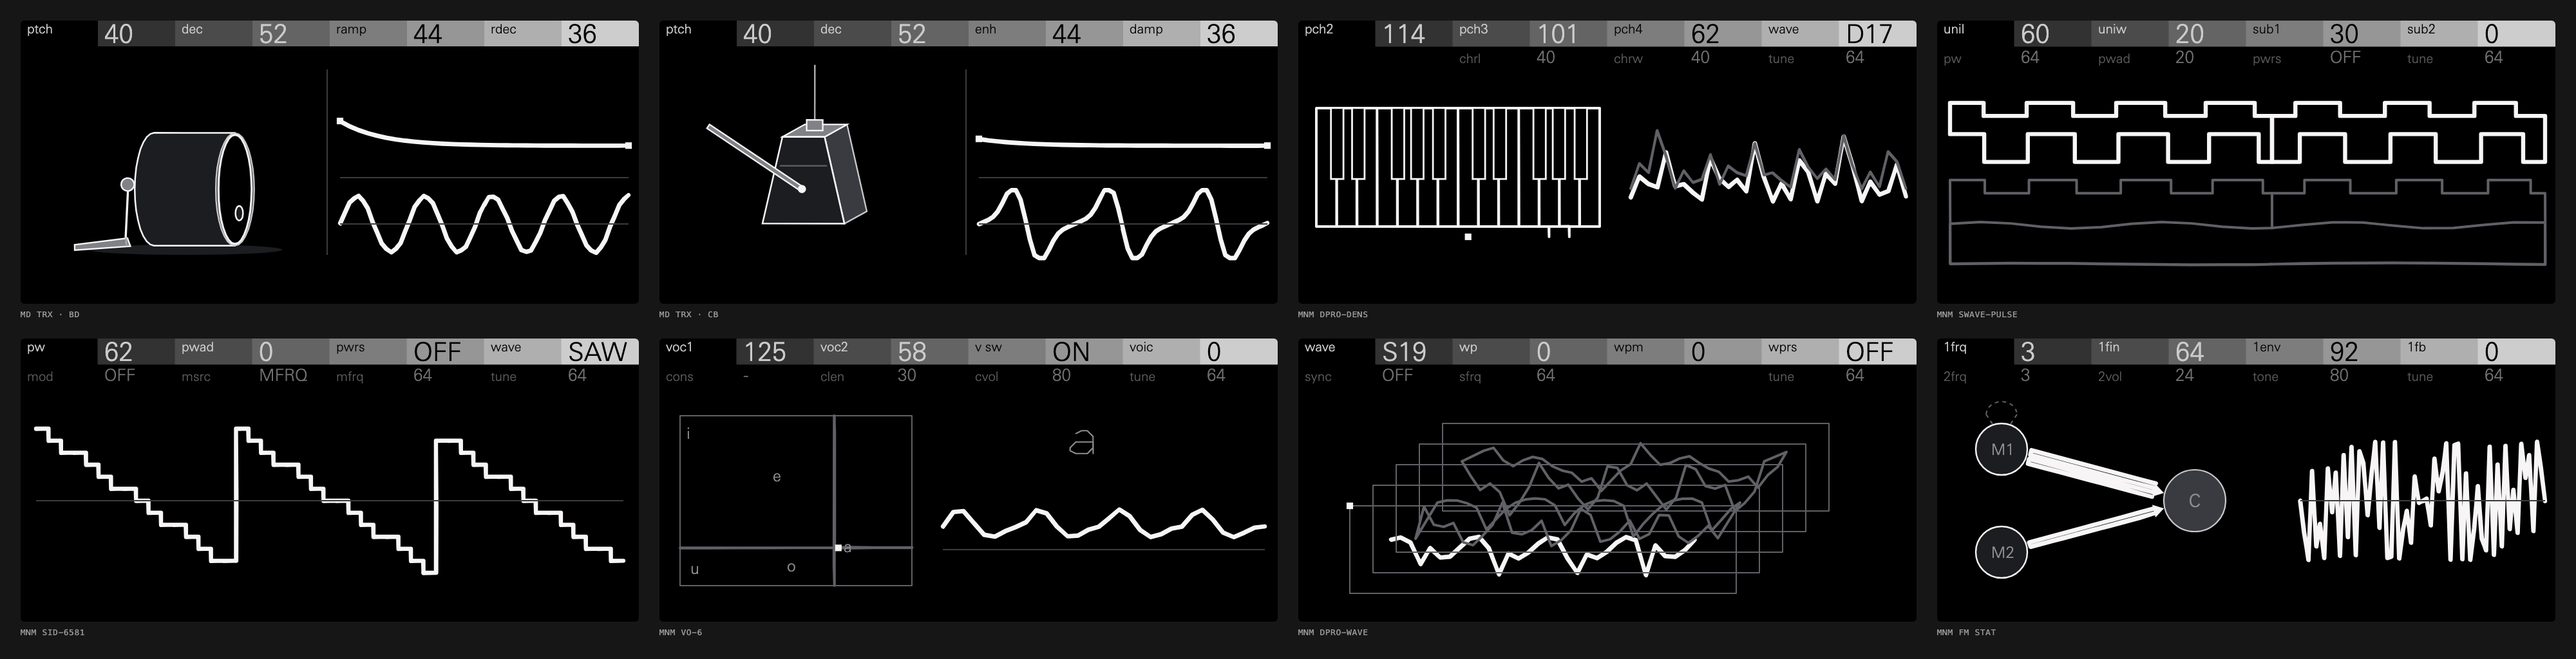
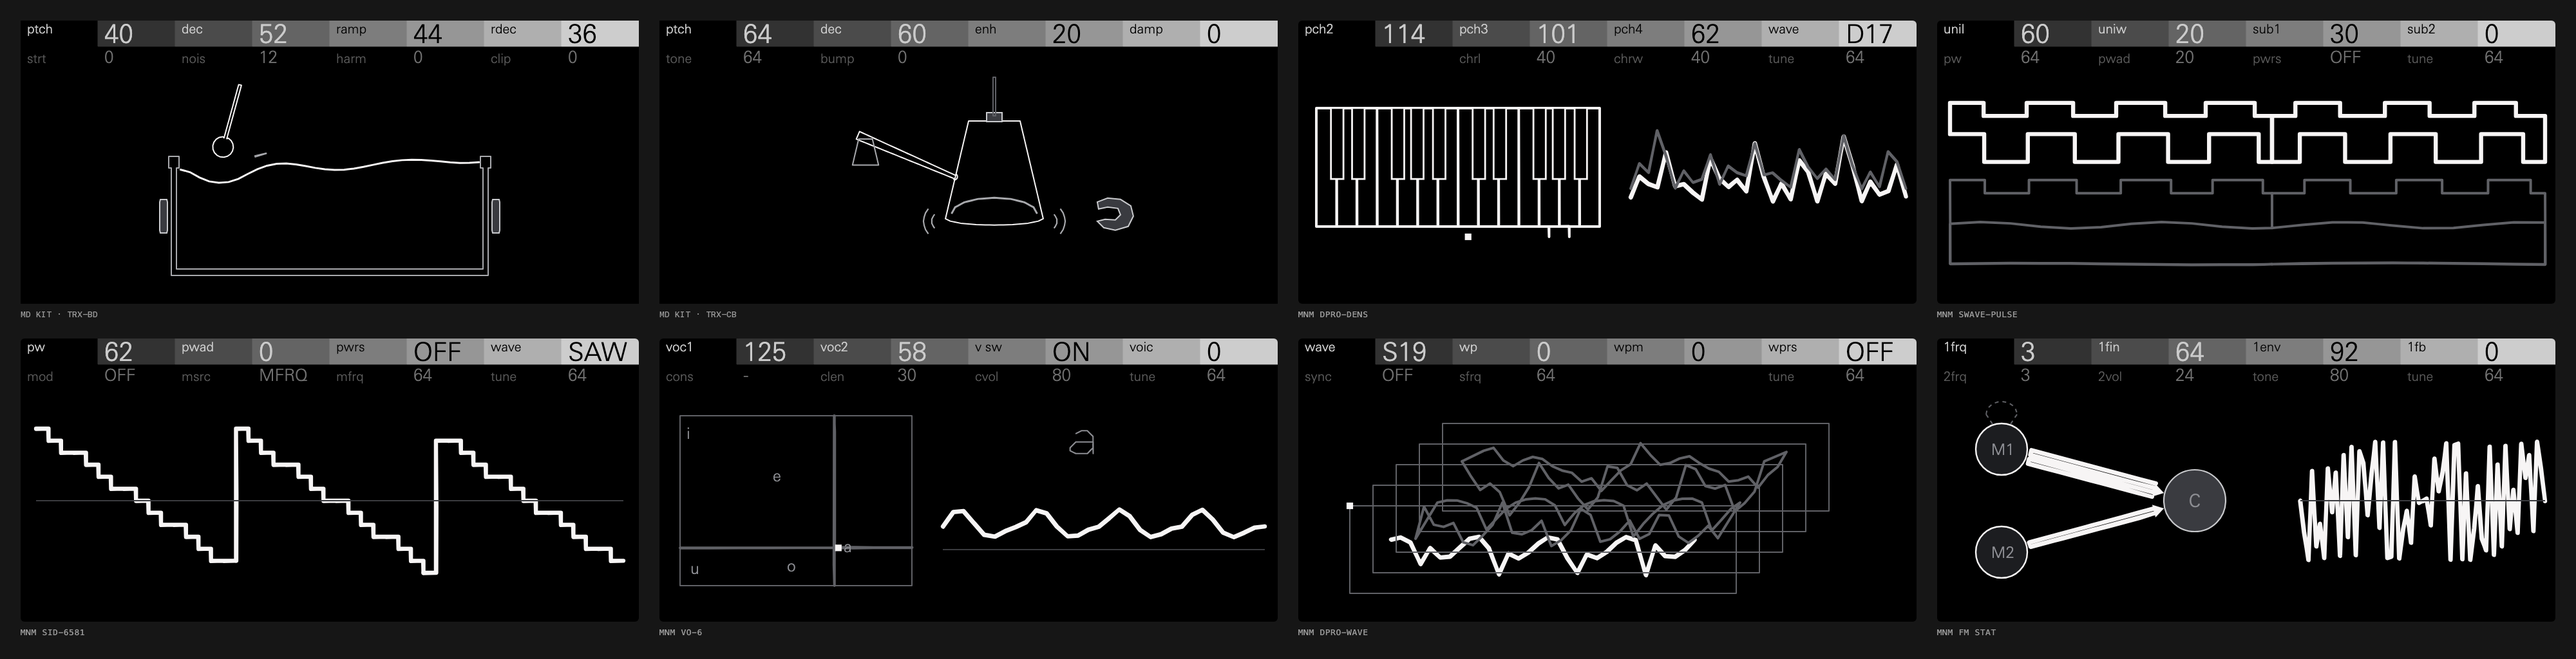
MD KIT and MD E12: thinner lines, 1 px, after stock Drumline's look
The kits' sections draw on the four paths at scale 2, which doubles a
palette entry's stroke width: their lines were 2 to 2.4 px wide (ribbons
about 2.5 px) beside fixed parts at 1 to 1.2. The paths now take palette
entries of their own at half the width (fig::path_tone, KIT_PATH_SHADES in
tools/art/build.mjs), in places the kits left unused, and the parts' mid and
outline entries go from 1.2 and 1.1 to 1. A closed outline now draws 1 px
and a ribbon 1.5 px; colours, geometry, path keys and churn are unchanged.

check_kit_frames, check_frame and OP-XY-Dev's check_screens give the same
results as before; sdk.py test passes on the host and with --firmware.
docs/machines.png's two MD KIT screens are re-rendered from this commit in
Univers Next Pro Light. MD E12's generated copy also picks up TRX-SD's
travel row, which main's voices already had.

diff --git a/machines/mde12/mdkit_view.hpp b/machines/mde12/mdkit_view.hpp
@@ -25,7 +25,7 @@ using opxy::u16;
 // the change it makes to the sound (the root of its share of 24 dB of band energy, at least 0.5).
 static const opxy::u16 travel[33][8] = {
     {128, 184, 183, 137, 132, 180, 128, 170},   // TRX-BD: PTCH 5.6, DEC 12.4, RAMP 12.2, RDEC 6.9, STRT 6.4, NOIS 11.8, HARM 1.1, CLIP 10.6
-    {128, 239, 128, 128, 142, 128, 128, 203},   // TRX-SD: PTCH 0.7, DEC 21.0, BUMP 0.8, BENV 0.5, SNAP 7.4, TONE 5.9, TUNE 4.8, CLIP 15.0
+    {157, 239, 128, 128, 142, 128, 128, 203},   // TRX-SD: PTCH 9.0, DEC 21.0, BUMP 0.8, BENV 0.3, SNAP 7.4, TONE 5.8, TUNE 4.7, CLIP 15.1
     {208, 256, 128, 137, 128, 160, 128, 0},   // TRX-XT: PTCH 15.8, DEC 27.9, RAMP 5.7, RDEC 6.8, DAMP 3.8, DIST 9.3, DTYP 1.5
     {128, 128, 128, 227, 256, 128, 163, 128},   // TRX-CP: CLPY 3.1, TONE 2.6, HARD 4.0, RICH 18.9, RATE 24.9, ROOM 3.6, RSIZ 9.7, RTUN 5.8
     {196, 256, 220, 0, 0, 0, 0, 0},   // TRX-RS: PTCH 14.1, DEC 33.5, DIST 17.7
@@ -138,6 +138,23 @@ inline i32 reach(i32 x, i32 y) {
     return (ax > ay ? ax + ay * 3 / 8 : ay + ax * 3 / 8) | 1;
 }
 
+// A path's own palette entry for a shade. The paths draw at scale 2, where an
+// entry's stroke width doubles, and the fixed parts at about 1, so the paths
+// take entries of their own: the same grey at half the width, in entries the
+// kits leave unused (tools/art/build.mjs, KIT_PATH_SHADES). Both then draw
+// lines about 1 px wide, as thin as stock Drumline's.
+inline u32 path_tone(u32 tone) {
+    switch (tone) {
+    case thin: return line;
+    case mid: return outline0;
+    case dim: return outline1;
+    case faint: return fill2;
+    case dash: return fill3;
+    case label: return fill5;
+    default: return tone;
+    }
+}
+
 // Draws points as a closed outline (or, `ribbon`, a line out and back) on a
 // path about (ox, oy) on the stage, at scale 2, turned by `tenths` about it.
 // The key is the points' own hash, so an unchanged shape costs nothing.
@@ -182,7 +199,7 @@ inline void draw(F& f, u32 path, const Pts& q, i32 ox, i32 oy, u32 tone, bool ri
         } else outline(f.paths[path], local, n, key);
         f.paths[path].key = key;
     }
-    place(f, path, ox + shift, stage_y * unit + oy, 2 * unit, tone, stroke);
+    place(f, path, ox + shift, stage_y * unit + oy, 2 * unit, path_tone(tone), stroke);
     if (tenths) opxy::draw::turn(f, path, rotation(tenths));
 }
 // A fixed part at (x, y) on the stage (Q10), scaled and turned, in its own shade or another.

diff --git a/machines/mdkit/mdkit_view.hpp b/machines/mdkit/mdkit_view.hpp
@@ -138,6 +138,23 @@ inline i32 reach(i32 x, i32 y) {
     return (ax > ay ? ax + ay * 3 / 8 : ay + ax * 3 / 8) | 1;
 }
 
+// A path's own palette entry for a shade. The paths draw at scale 2, where an
+// entry's stroke width doubles, and the fixed parts at about 1, so the paths
+// take entries of their own: the same grey at half the width, in entries the
+// kits leave unused (tools/art/build.mjs, KIT_PATH_SHADES). Both then draw
+// lines about 1 px wide, as thin as stock Drumline's.
+inline u32 path_tone(u32 tone) {
+    switch (tone) {
+    case thin: return line;
+    case mid: return outline0;
+    case dim: return outline1;
+    case faint: return fill2;
+    case dash: return fill3;
+    case label: return fill5;
+    default: return tone;
+    }
+}
+
 // Draws points as a closed outline (or, `ribbon`, a line out and back) on a
 // path about (ox, oy) on the stage, at scale 2, turned by `tenths` about it.
 // The key is the points' own hash, so an unchanged shape costs nothing.
@@ -182,7 +199,7 @@ inline void draw(F& f, u32 path, const Pts& q, i32 ox, i32 oy, u32 tone, bool ri
         } else outline(f.paths[path], local, n, key);
         f.paths[path].key = key;
     }
-    place(f, path, ox + shift, stage_y * unit + oy, 2 * unit, tone, stroke);
+    place(f, path, ox + shift, stage_y * unit + oy, 2 * unit, path_tone(tone), stroke);
     if (tenths) opxy::draw::turn(f, path, rotation(tenths));
 }
 // A fixed part at (x, y) on the stage (Q10), scaled and turned, in its own shade or another.

diff --git a/voices/mdkit_view.hpp b/voices/mdkit_view.hpp
@@ -138,6 +138,23 @@ inline i32 reach(i32 x, i32 y) {
     return (ax > ay ? ax + ay * 3 / 8 : ay + ax * 3 / 8) | 1;
 }
 
+// A path's own palette entry for a shade. The paths draw at scale 2, where an
+// entry's stroke width doubles, and the fixed parts at about 1, so the paths
+// take entries of their own: the same grey at half the width, in entries the
+// kits leave unused (tools/art/build.mjs, KIT_PATH_SHADES). Both then draw
+// lines about 1 px wide, as thin as stock Drumline's.
+inline u32 path_tone(u32 tone) {
+    switch (tone) {
+    case thin: return line;
+    case mid: return outline0;
+    case dim: return outline1;
+    case faint: return fill2;
+    case dash: return fill3;
+    case label: return fill5;
+    default: return tone;
+    }
+}
+
 // Draws points as a closed outline (or, `ribbon`, a line out and back) on a
 // path about (ox, oy) on the stage, at scale 2, turned by `tenths` about it.
 // The key is the points' own hash, so an unchanged shape costs nothing.
@@ -182,7 +199,7 @@ inline void draw(F& f, u32 path, const Pts& q, i32 ox, i32 oy, u32 tone, bool ri
         } else outline(f.paths[path], local, n, key);
         f.paths[path].key = key;
     }
-    place(f, path, ox + shift, stage_y * unit + oy, 2 * unit, tone, stroke);
+    place(f, path, ox + shift, stage_y * unit + oy, 2 * unit, path_tone(tone), stroke);
     if (tenths) opxy::draw::turn(f, path, rotation(tenths));
 }
 // A fixed part at (x, y) on the stage (Q10), scaled and turned, in its own shade or another.

diff --git a/docs/SCREEN.md b/docs/SCREEN.md
@@ -145,6 +145,13 @@ Lessons from the device (build 039), for any view on a reshaping path:
   edges a quarter of a local pixel apart. A line traced out and back over itself
   (`polyline`), most of all one that turns sharply, broke up on the device even
   when every host check passed.
+- **Lines are 1 px.** The paths draw at scale 2, which doubles a palette entry's
+  stroke width, so they take entries of their own at half the width
+  (`fig::path_tone`; `KIT_PATH_SHADES` in `tools/art/build.mjs`), in palette places
+  the kits leave unused. A closed outline is then 1 px wide and a ribbon 1.5 px
+  across; the fixed parts' entries are 1 px at their scale of about 1. Up to
+  v1.2.3 the paths drew 2 to 2.4 px, and players asked for stock Drumline's
+  thinner look.
 - **Never draw several separate strokes on one path.** TRX-BD's NOIS spray broke
   up that way: the strokes and the joins between them doubled back at every tip.
   Use fixed nodes (`spark0`..), which cannot change shape.
